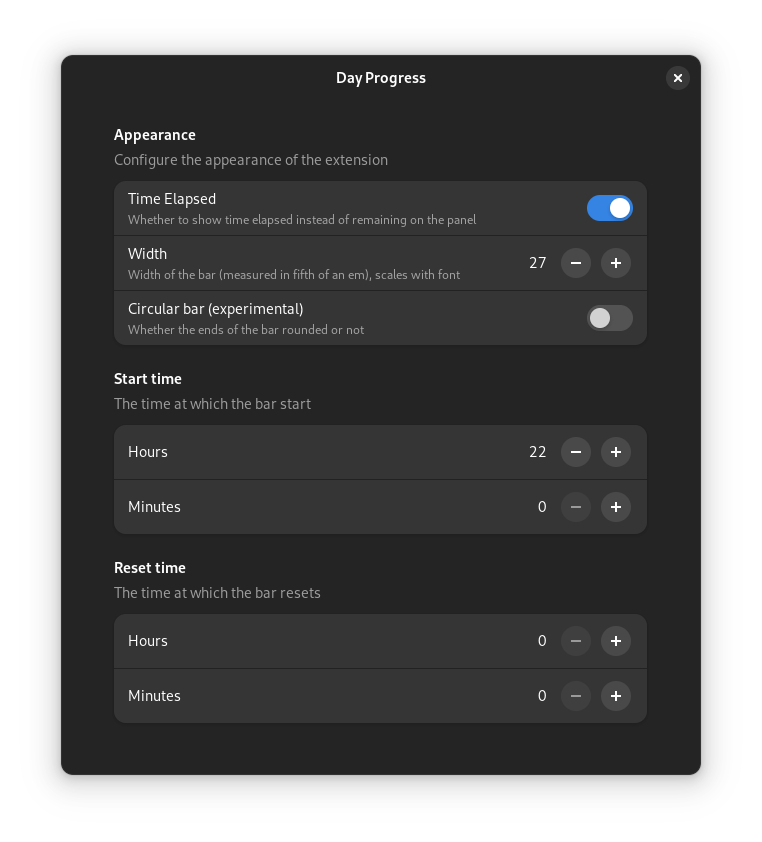
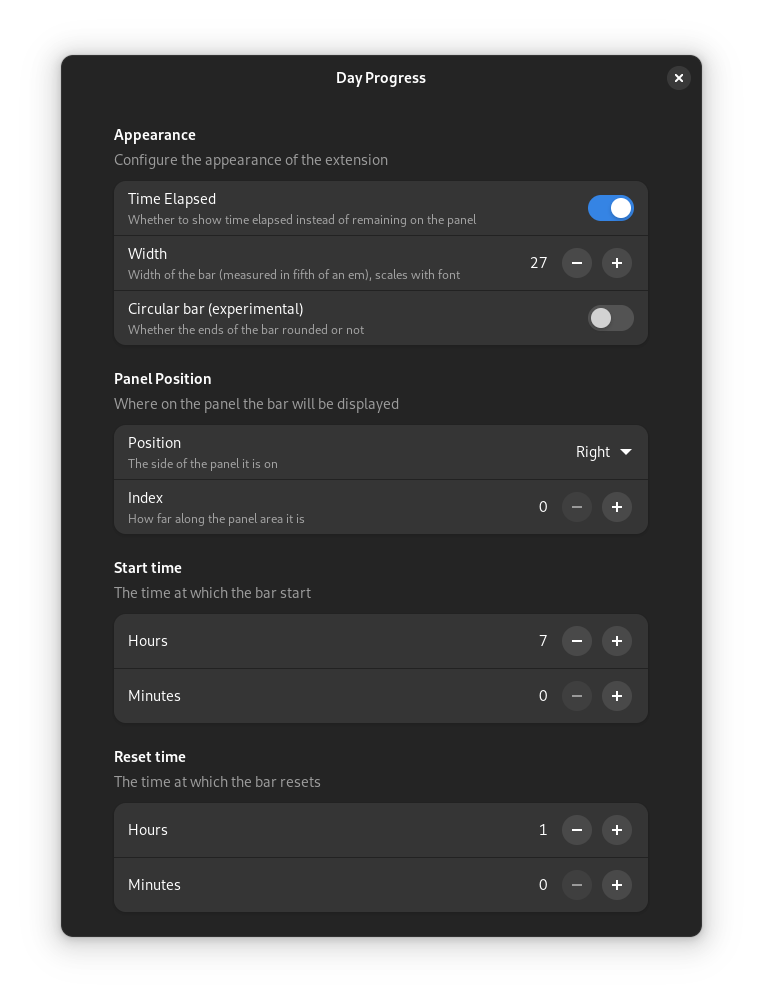
Added setting to change panel position/index

diff --git a/prefs.js b/prefs.js
@@ -20,6 +20,12 @@ export default class ExamplePreferences extends ExtensionPreferences {
         });
         page.add(appearance);
 
+        const panelPosition = new Adw.PreferencesGroup({
+            title: _('Panel Position'),
+            description: _('Where on the panel the bar will be displayed'),
+        });
+        page.add(panelPosition);
+
         const startTime = new Adw.PreferencesGroup({
             title: _('Start time'),
             description: _('The time at which the bar start'),
@@ -32,12 +38,14 @@ export default class ExamplePreferences extends ExtensionPreferences {
         });
         page.add(resetTime);
 
+        // Elapsed
         const elapsed = new Adw.SwitchRow({
             title: _('Time Elapsed'),
             subtitle: _('Whether to show time elapsed instead of remaining on the panel'),
         });
         appearance.add(elapsed);
 
+        // Width
         const width = new Adw.SpinRow({
             title: _("Width"),
             subtitle: _('Width of the bar (measured in fifth of an em), scales with font'),
@@ -49,12 +57,14 @@ export default class ExamplePreferences extends ExtensionPreferences {
         });
         appearance.add(width);
 
+        // Circular
         const circular = new Adw.SwitchRow({
             title: _('Circular bar (experimental)'),
             subtitle: _('Whether the ends of the bar rounded or not'),
         });
         appearance.add(circular);
 
+        // Start time
         const startHour = new Adw.SpinRow({
             title: _("Hours"),
             adjustment: new Gtk.Adjustment({
@@ -64,7 +74,6 @@ export default class ExamplePreferences extends ExtensionPreferences {
             })
         });
         startTime.add(startHour);
-
         const startMinute = new Adw.SpinRow({
             title: _("Minutes"),
             adjustment: new Gtk.Adjustment({
@@ -75,6 +84,7 @@ export default class ExamplePreferences extends ExtensionPreferences {
         });
         startTime.add(startMinute);
 
+        // Reset time
         const resetHour = new Adw.SpinRow({
             title: _("Hours"),
             adjustment: new Gtk.Adjustment({
@@ -84,7 +94,6 @@ export default class ExamplePreferences extends ExtensionPreferences {
             })
         });
         resetTime.add(resetHour);
-
         const resetMinute = new Adw.SpinRow({
             title: _("Minutes"),
             adjustment: new Gtk.Adjustment({
@@ -95,22 +104,44 @@ export default class ExamplePreferences extends ExtensionPreferences {
         });
         resetTime.add(resetMinute);
 
+        // Panel position
+        const positions = [_("Left"), _("Centre"), _("Right")];
+        let optionsList = new Gtk.StringList();
+        positions.forEach((it) => {
+            optionsList.append(it);
+        });
+        const positionRow = new Adw.ComboRow({
+            title: _("Position"),
+            subtitle: _("The side of the panel it is on"),
+            model: optionsList
+        });
+        panelPosition.add(positionRow);
+
+        // Panel index
+        const panelIndex = new Adw.SpinRow({
+            title: _("Index"),
+            subtitle: _("How far along the panel area it is"),
+            adjustment: new Gtk.Adjustment({
+                lower: 0,
+                upper: 256,
+                step_increment: 1
+            })
+        });
+        panelPosition.add(panelIndex);
+
+        // Bind
         window._settings = this.getSettings();
-        window._settings.bind('show-elapsed', elapsed, 'active',
-            Gio.SettingsBindFlags.DEFAULT);
-        window._settings.bind('width', width, 'value',
-            Gio.SettingsBindFlags.DEFAULT);
-        window._settings.bind('circular', circular, 'active',
-            Gio.SettingsBindFlags.DEFAULT);
+        window._settings.bind('show-elapsed', elapsed, 'active', Gio.SettingsBindFlags.DEFAULT);
+        window._settings.bind('width', width, 'value', Gio.SettingsBindFlags.DEFAULT);
+        window._settings.bind('circular', circular, 'active', Gio.SettingsBindFlags.DEFAULT);
 
-        window._settings.bind('start-hour', startHour, 'value',
-            Gio.SettingsBindFlags.DEFAULT);
-        window._settings.bind('start-minute', startMinute, 'value',
-            Gio.SettingsBindFlags.DEFAULT);
+        window._settings.bind('start-hour', startHour, 'value', Gio.SettingsBindFlags.DEFAULT);
+        window._settings.bind('start-minute', startMinute, 'value', Gio.SettingsBindFlags.DEFAULT);
 
-        window._settings.bind('reset-hour', resetHour, 'value',
-            Gio.SettingsBindFlags.DEFAULT);
-        window._settings.bind('reset-minute', resetMinute, 'value',
-            Gio.SettingsBindFlags.DEFAULT);
+        window._settings.bind('reset-hour', resetHour, 'value', Gio.SettingsBindFlags.DEFAULT);
+        window._settings.bind('reset-minute', resetMinute, 'value', Gio.SettingsBindFlags.DEFAULT);
+
+        window._settings.bind('panel-position', positionRow, 'selected', Gio.SettingsBindFlags.DEFAULT);
+        window._settings.bind('panel-index', panelIndex, 'value', Gio.SettingsBindFlags.DEFAULT);
     }
 }

diff --git a/extension.js b/extension.js
@@ -120,6 +120,21 @@ export default class DayProgress extends Extension {
             this.updateBar();
         });
 
+        // Panel position
+        this.panelPosition = this._settings.get_int('panel-position');
+        this.panelPositionHandle = this._settings.connect('changed::panel-position', (settings, key) => {
+            this.panelPosition = settings.get_int(key);
+            this.applyPosition();
+        });
+
+        this.panelIndex = this._settings.get_int('panel-index');
+        this.panelIndexHandle = this._settings.connect('changed::panel-index', (settings, key) => {
+            this.panelIndex = settings.get_int(key);
+            this.applyPosition();
+        });
+
+        this.applyPosition();
+
         // Update bar now to immediately populate it
         this.updateBar();
 
@@ -177,6 +192,18 @@ export default class DayProgress extends Extension {
         this.bar.style = `width: ` + mapNumber(this.showElapsed ? percentElapsedOfPeriod : percentRemainingOfDay, 0, 1, 0.0, this.width - 0.15) +
             `em;` + 'border-radius: ' + (this.circular ? 1 : 0.15) + 'em;';
     }
+
+    // Mostly copied from Noiseclapper@JordanViknar
+    applyPosition() {
+        const boxes = {
+            left: Main.panel._leftBox,
+            center: Main.panel._centerBox,
+            right: Main.panel._rightBox,
+        };
+        const position = this.panelPosition;
+        const index = this.panelIndex;
+        Main.panel._addToPanelBox(this.metadata.name, this._indicator, index, boxes[position === 0 ? 'left' : position === 1 ? 'center' : 'right']);
+    }
     
     disable() {
         if (this.timerID) {
@@ -212,6 +239,14 @@ export default class DayProgress extends Extension {
             this._settings.disconnect(this.resetMinuteHandle);
             this.resetMinuteHandle = null;
         }
+        if (this.panelPositionHandle) {
+            this._settings.disconnect(this.panelPositionHandle);
+            this.panelPositionHandle = null;
+        }
+        if (this.panelIndexHandle) {
+            this._settings.disconnect(this.panelIndexHandle);
+            this.panelIndexHandle = null;
+        }
 
         this._indicator?.destroy();
         this._indicator = null;
@@ -231,6 +266,8 @@ export default class DayProgress extends Extension {
         this.startMinute = null;
         this.resetHour = null;
         this.resetMinute = null;
+        this.panelPosition = null;
+        this.panelIndex = null;
 
         this._settings = null;
     }

diff --git a/README.md b/README.md
@@ -2,7 +2,11 @@
 
 ![Day progress icon](docs/images/org.day-progress.DayProgress.svg)
 
-A simple GNOME shell extension that displays a (somewhat) customisable progress bar of your day in the top panel to help you track your time. Mostly inspired by this MacOS app: https://www.producthunt.com/posts/day-progress 
+A simple GNOME shell extension that displays a (somewhat) customisable progress bar of your day in the top panel to help you track your time. Mostly inspired by this MacOS app: [https://www.producthunt.com/posts/day-progress](https://www.producthunt.com/posts/day-progress)
+
+## Reporting bugs/feature requests
+
+Firstly, have look at [this](https://github.com/users/ArcaEge/projects/1/views/1) page to see if we're already working on it. If not, please submit an issue [here](https://github.com/ArcaEge/day-progress/issues/new), we'll have a look at it soon™.
 
 ## Screenshots
 
